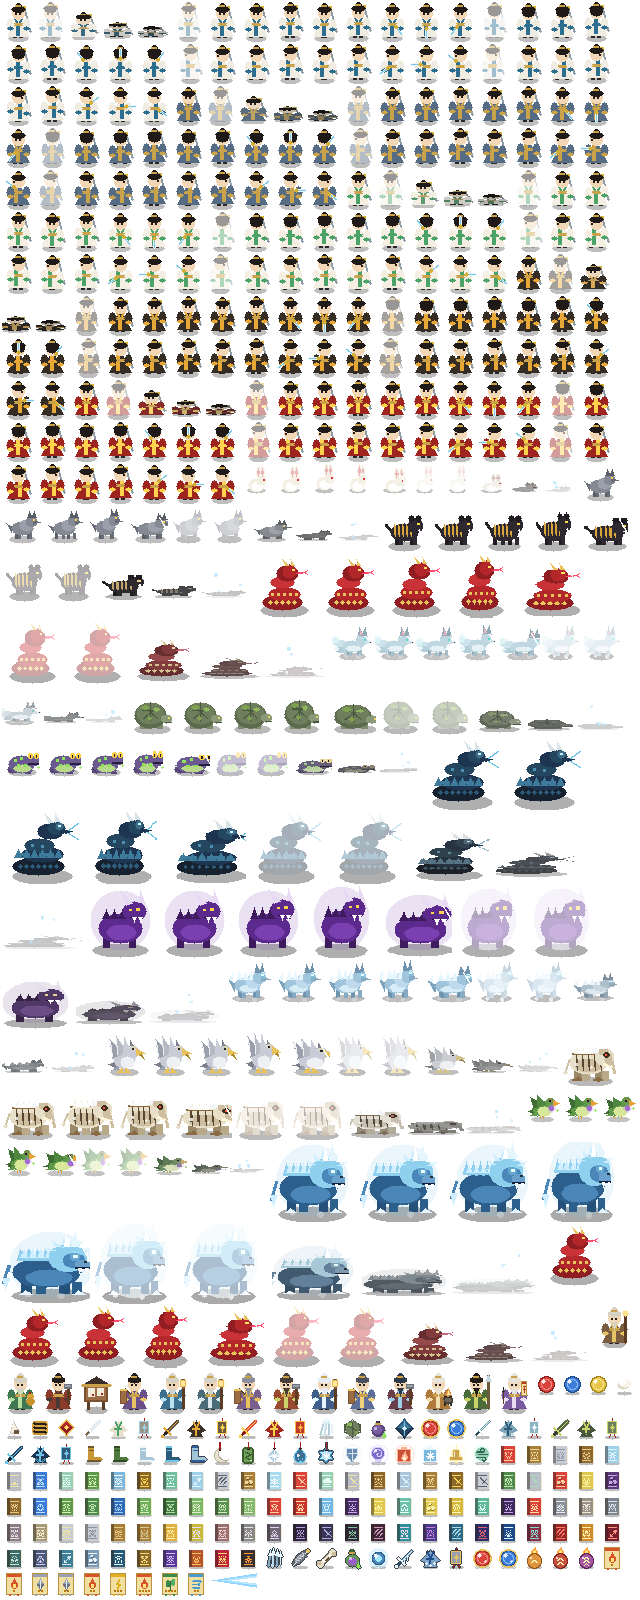
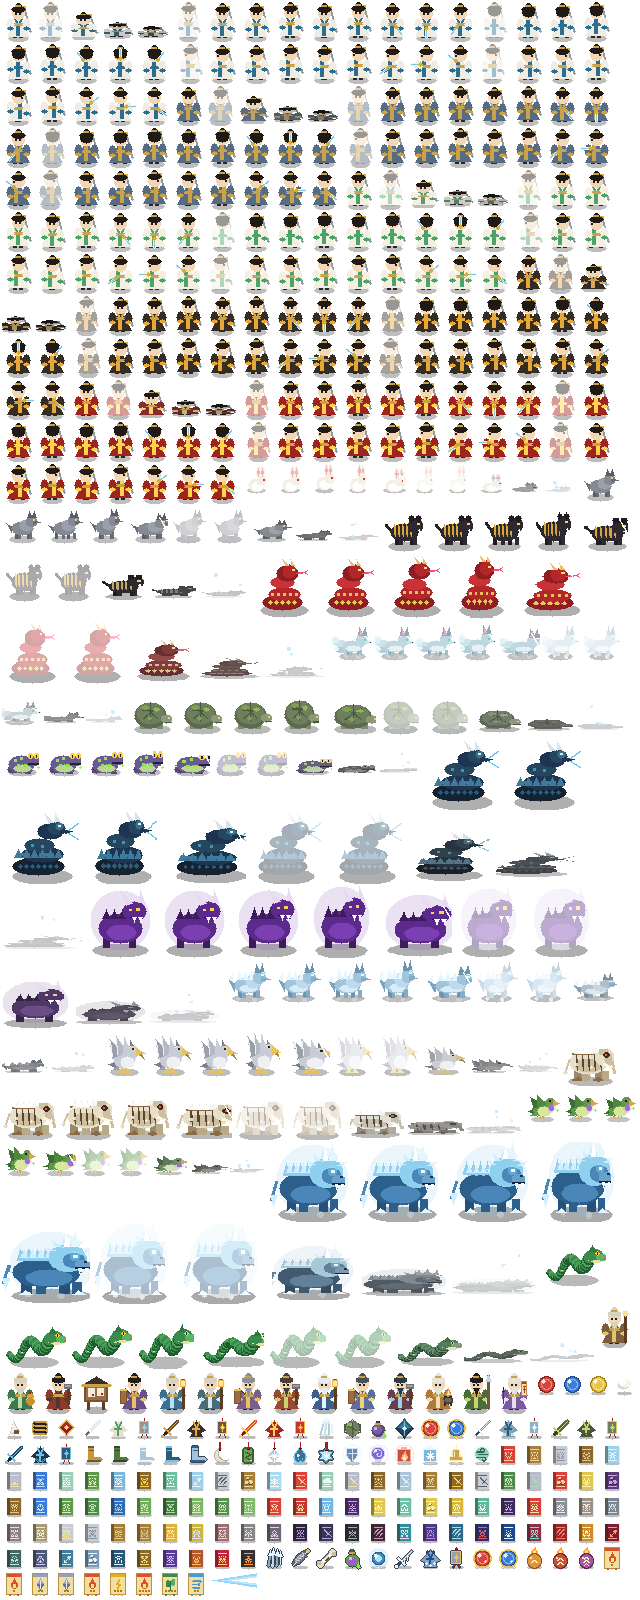
feat(client): Thanh Xà có ảnh riêng — rắn xanh uốn chữ S thay ảnh Xích Mãng đỏ tạm; dựng lại atlas + tờ duyệt nhóm 13; Refs #1065

diff --git a/CHANGELOG.md b/CHANGELOG.md
@@ -53,6 +53,7 @@
 - **Lô 10 nối `check-*` nightly: `check-craft-ui` (B, #1458; chỉ công cụ kiểm, người chơi KHÔNG thấy đổi):** giao diện nghề nhỏ lát 1 (#514, issue #769) ở năm khung nhìn: Lò đan («Lò Đan · ...», nút «Luyện», gợi ý phí), chip trạng thái bốn ô (đúng chữ, không chồng, không ra ngoài màn hình), túi đồ (nút Dùng mờ kèm lý do «Đang còn hiệu lực» và sáng lại khi chip mất, dòng «Hiệu lực: ...»), toast thành công khi dùng đan. `launchChrome`, `waitUntilTrue`, cờ `--slow-frame`, phông + `data-input` thay `sleep(600)`; cần `client/dist`. 19 `sleep` cố định thay bằng `settle()` = chờ >= 8 KHUNG HÌNH VÀ >= 250 ms (đồng hồ thật): cảnh cập nhật chip và nút Dùng theo nhịp ~60 ms TRONG vòng cập nhật của Phaser (mỗi khung), nên ở khung chậm `sleep(350 / 400)` có thể không đủ một nhịp; chờ vài khung hình thì chắc chắn cảnh đã chạy lại cập nhật (khác `check-shop-qty` / `check-sell-confirm`: ở đó chờ DOM yên). Cục bộ: ma trận `CI=true taskset -c 3 --slow-frame 25 / 36 / 50` x 3 lượt = 9 / 9 xanh (98-127 s) + 3 / 3 dưới vòng ngốn CPU cùng lõi (120-139 s); đột biến `item-use.ts` bỏ nhánh «Đang còn hiệu lực» (dựng lại `dist`) làm đỏ 5 ca. Hoãn: `npc-portrait`, `skill-bar`.
 - **Lô 9 nối `check-*` nightly: `check-sell-confirm` (B, #1458; chỉ công cụ kiểm, người chơi KHÔNG thấy đổi):** hộp xác nhận BÁN đồ quý / trang bị ở cửa hàng (issue #779) ở năm khung nhìn: đồ thường bán thẳng không hộp; đồ quý hộp nêu «Bán <tên> ×N được M Linh thạch?» + nhắc mua lại tốn hơn, focus ở «Giữ lại», nút >= 44 px trên cảm ứng; click ma NGAY khi hộp vừa mở bị bỏ qua; «Giữ lại» / Esc / X không bán; xác nhận đúng MỘT tin bán. `launchChrome` (thay `spawn` + vòng chờ riêng), `waitUntilTrue`, cờ `--slow-frame`, phông + `data-input` thay `sleep(600)`; cần `client/dist` (workflow `e2e.yml` đã `npm run build`). **Ca click ma viết lại TẤT ĐỊNH (như `check-act-confirm`, #1477):** trước đây `center()` + `tap()` qua CDP chạy SAU khi mở hộp nên ở khung chậm cú bấm trễ quá cửa sổ chống click ma 450 ms và được tính là thật; nay mở hộp (`click` lên nút Bán của thẻ, `detail` 0 nên không bị `ghostClick` chặn) VÀ `pointerdown` tổng hợp lên «Bán» trong hộp trong CÙNG MỘT lượt JS (độ trễ ~0 ms, không phụ thuộc tốc độ khung). Các `sleep(560 / 300)` chờ cho QUA cửa sổ 450 ms được giữ (cận dưới theo đồng hồ thật, ngủ dài hơn chỉ an toàn hơn). 14 `sleep` cố định còn lại thay bằng `settle()` (khung cửa hàng không đổi DOM trong 250 ms, TRẦN 1,5 s vì HUD ngoài khung đổi liên tục, rồi 2 khung hình); `center()` chờ 2 khung hình sau `scrollIntoView` mới đo (cùng cách sửa `check-shop-qty`). Cục bộ: ma trận `CI=true taskset -c 3 --slow-frame 25 / 36 / 50` x 3 lượt = 9 / 9 xanh (143-188 s) + 3 / 3 dưới vòng ngốn CPU cùng lõi (162-180 s); đột biến `ACT_CONFIRM_GUARD_MS` = 0 (dựng lại `dist`) làm đỏ 25 ca, gồm ca «bấm NGAY khi hộp vừa mở (click ma)». Hoãn: `craft-ui`, `npc-portrait`, `skill-bar`.
 - **Lô 11 nối `check-*` nightly: `check-npc-portrait` (B, #1458; chỉ công cụ kiểm, người chơi KHÔNG thấy đổi):** chân dung NPC ở hộp thoại (#513, gói `art:npc`) ở sáu khung nhìn qua đường tải THẬT của gói (manifest -> tệp -> URL có băm -> giải mã) với máy chủ tĩnh giả: ảnh hiện sau khi gói về, vuông, trọn trong đầu hộp thoại, không đè tên NPC / nút Đóng, manifest tải MỘT lần, không chớp khi vẽ lại, ẩn khi đổi sang NPC không chân dung / đóng hộp thoại; riêng 1280x720: không gói, tệp lỗi 404, gói về MUỘN (4,5 giây), đóng hộp thoại TRƯỚC khi gói về. `launchChrome` thay `spawn("google-chrome")` + vòng chờ 15 s, `waitUntilTrue` + phông / `data-input` thay `sleep(500)`, cờ `--slow-frame`. Các ca 'KHÔNG hiện' chờ THEO SỰ KIỆN của máy chủ giả (bộ đếm yêu cầu manifest / tệp đã trả, thêm 8 khung hình + 250 ms) thay `sleep(1800 / 2000 / 3500)`; hai ca gói về muộn giữ `sleep(3600)` vì là hợp đồng thời gian THẬT (client chờ 3 giây, máy chủ giả trả sau 4,5 giây). Cục bộ: ma trận `CI=true taskset -c 0` (không giả khung) và `--slow-frame 25 / 36 / 50` x 3 lượt = 12 / 12 xanh (114 kiểm mỗi lượt, 28-51 s); ba đột biến (dựng lại `dist`): bỏ chốt 'cùng NPC thì giữ nguyên' (`NpcPortraitSlot.show`) đỏ 6, `clear()` không ẩn ảnh đỏ 12, huỷ yêu cầu của `showArtImage` không có tác dụng đỏ 1 (ca 'đóng trước khi gói về'). Còn lại của #1458: `skill-bar` (cần viết lại).
+- **Thanh Xà có ảnh RIÊNG: rắn XANH uốn chữ S (B, CD5 #1065; NGƯỜI CHƠI THẤY ĐỔI khi trùm Lạc Hà được bật):** #1559 để Thanh Xà tạm dùng ảnh Xích Mãng (rắn ĐỎ cuộn tháp, có sừng) trong khi tên và hạt hiệu ứng là XANH nên người chơi dễ lẫn hai trùm cùng họ rắn. `drawMonsterFrame('thanh_xa')` (`client/scripts/gen-assets.mjs`) vẽ rắn xanh 64x64 uốn chữ S, vảy xen kẽ hai sắc xanh (khớp `MONSTERS.thanh_xa.color` 0x3a8c4a và `MONSTER_FX_TINT.thanh_xa`), bụng vàng nhạt, mắt hổ phách đồng tử dọc, lưỡi chẻ đỏ, KHÔNG sừng; hai khung đi + các tư thế đánh / bị thương / chết suy từ khung đó như mọi quái (`drawMonsterPose`). Bỏ khối tái dùng ảnh Xích Mãng, thêm `thanh_xa` vào danh sách quái vẽ chung. Atlas giữ 528 khung (cùng kích thước 64x64, `atlas.json` không đổi, chỉ `atlas.png` đổi); tờ duyệt nhóm 13 (`13-trum.png`) dựng lại bằng `dung-bang-duyet.py --groups 13 --md ...` (hàng T-05 giữ nguyên chữ, hình thân nay là rắn xanh) và `duyet.json` dựng lại cho thấy không đổi nội dung (chỉ `tao_luc`, bỏ). Cục bộ: `DUYET_KIEM=1` + `client/scripts/art` + `client/src/gfx` + `assets-sync` + `credits` 790 / 790 xanh.
 ### Máy chủ
 - **3 việc phụ MỚI ở Hắc Phong Cốc (Trúc Cơ, E1 #1450; A làm thay E đang tắt; NGƯỜI CHƠI THẤY ĐỔI khi phát hành; chỉ dữ liệu `QUESTS` + test + `docs/CAN_BANG.md` + `docs/SO_TAY_CHIEU_THUC.md`, không đổi mã trò chơi):** lái buôn Mạc Thông giao hai việc (`hac_phong_nanh_soi`: hạ 10 Hôi Lang + 6 nanh sói, Trúc Cơ sơ kỳ; `hac_phong_da_ho_ao`: hạ 8 Hắc Hổ + 5 da hổ, trung kỳ), trạm úy Lôi Báo một việc (`hac_phong_don_duong`: hạ 8 Hôi Lang rồi 5 Hắc Hổ, hậu kỳ, thưởng kinh quyển Bàn Thạch Hộ Thể). Không bắt buộc, không lặp, không vật phẩm / chiêu / quái mới. Thưởng tu vi 90 / 102 / 117 (sát sàn 2 % thanh bậc nhận); cộng với `mang_hoan` tổng việc phụ Trúc Cơ 609 <= trần 4 % (611). Cả Trúc Cơ rút từ 2 giờ 49 xuống 2 giờ 47 phút (`docs/CAN_BANG.md`). Test mới `shared/src/hac-phong-sidequests.test.ts` (11 ca, 10 đột biến đỏ).
 - **Bảng dự trữ thời gian nightly e2e:* và nâng sàn e2e:chuyen-canh, e2e:inv-select lên 480 s** (C, Issue #1501, Refs #1458; chỉ công cụ kiểm, người chơi KHÔNG thấy đổi): khảo sát số đo thời gian thực tế của 46 kịch bản nightly từ log CI GitHub Actions của >= 3 lượt E2E đầy đủ gần nhất (`45658493051`, `45691664338`, `45701781366`) và các lượt dispatch liên quan; bổ sung bảng dự trữ thời gian đầy đủ (46 kịch bản tại thời điểm khảo sát) vào `docs/VAN_HANH.md` mục 10.3 cạnh `SCRIPT_TIMEOUT_SEC`. Phát hiện 2 kịch bản có tỷ lệ `max_đo / hạn_thực >= 50%` là `e2e:chuyen-canh` (bản hiện tại từ #1499 đo 86,9-173,9 s trên 13 lượt, max 173,9 s / 300 s = 58,0%) và `e2e:inv-select` (max 173,9 s / 300 s = 58,0%), nâng sàn riêng trong `server/scripts/e2e-all.ts` lên 480 s (tỷ lệ an toàn mới 36,2%; hạn thực <= 600 s nên vẫn cho phép retry khi gặp lỗi tạm thời; cả hai cùng nằm Shard 3/4 nên sàn 480 s giúp bảo vệ trần 30 phút của shard). Ghi nhận `e2e:ban-phim` tiệm cận (max 141,6 s / 300 s = 47,2%) để tiếp tục theo dõi.
